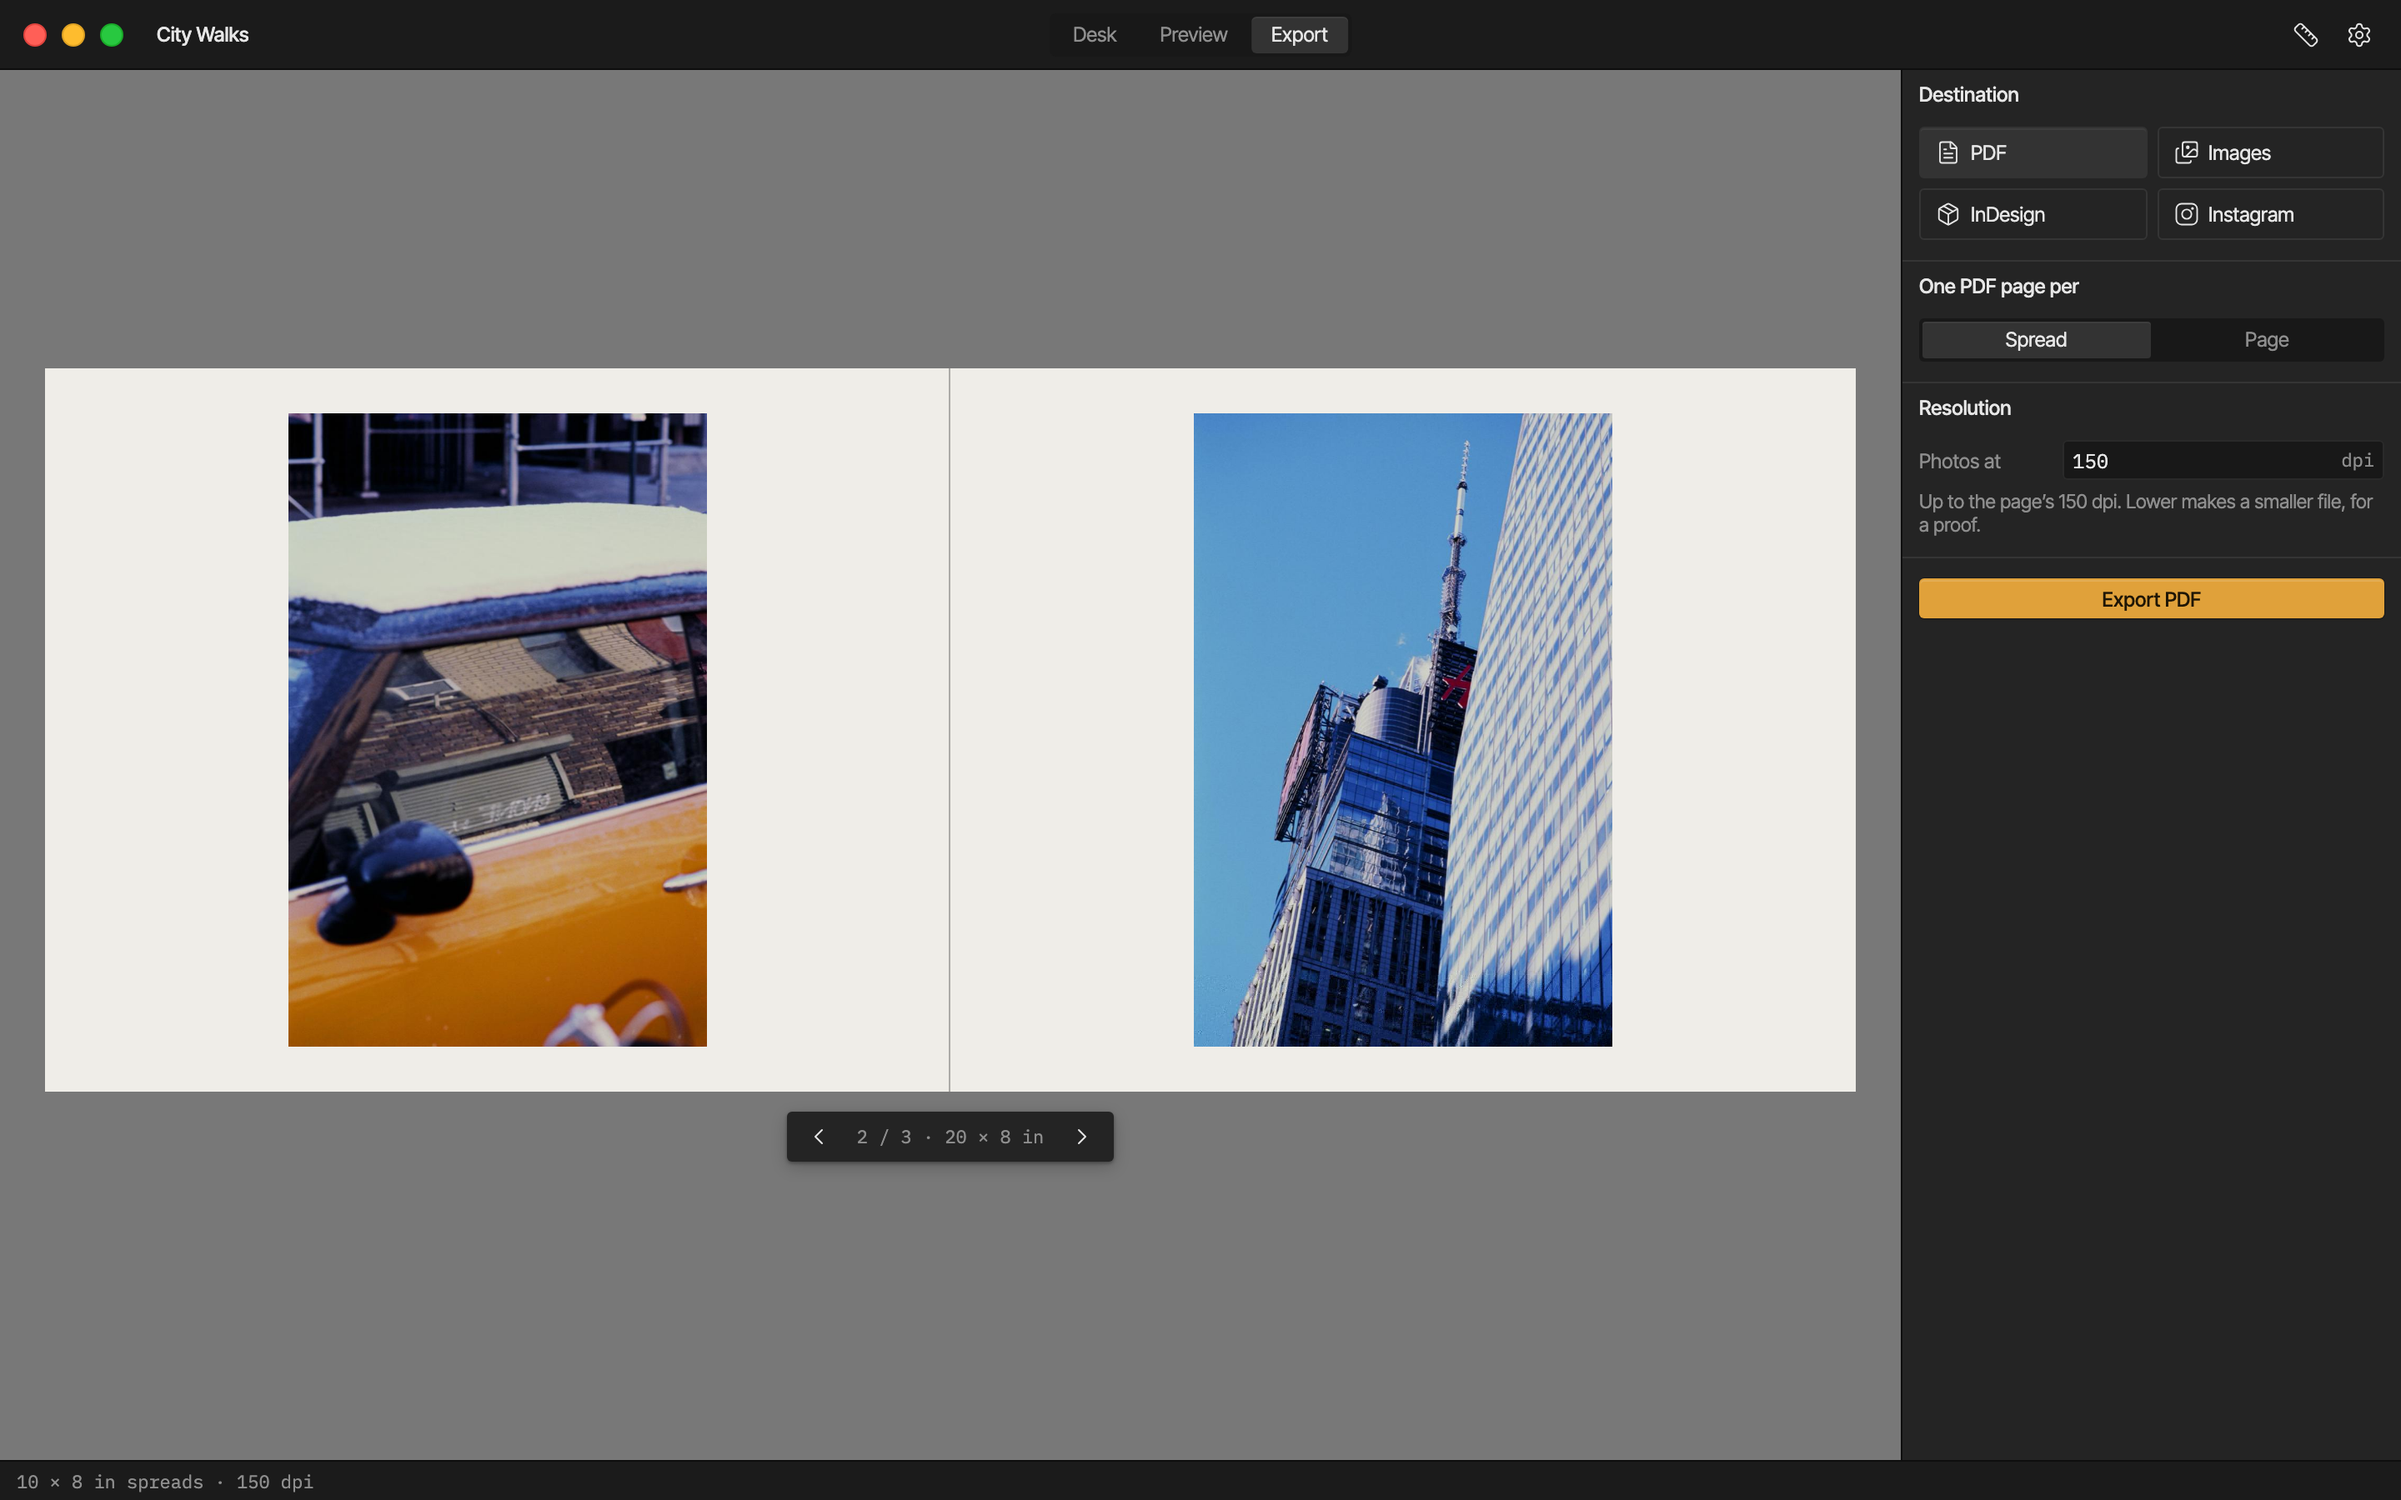
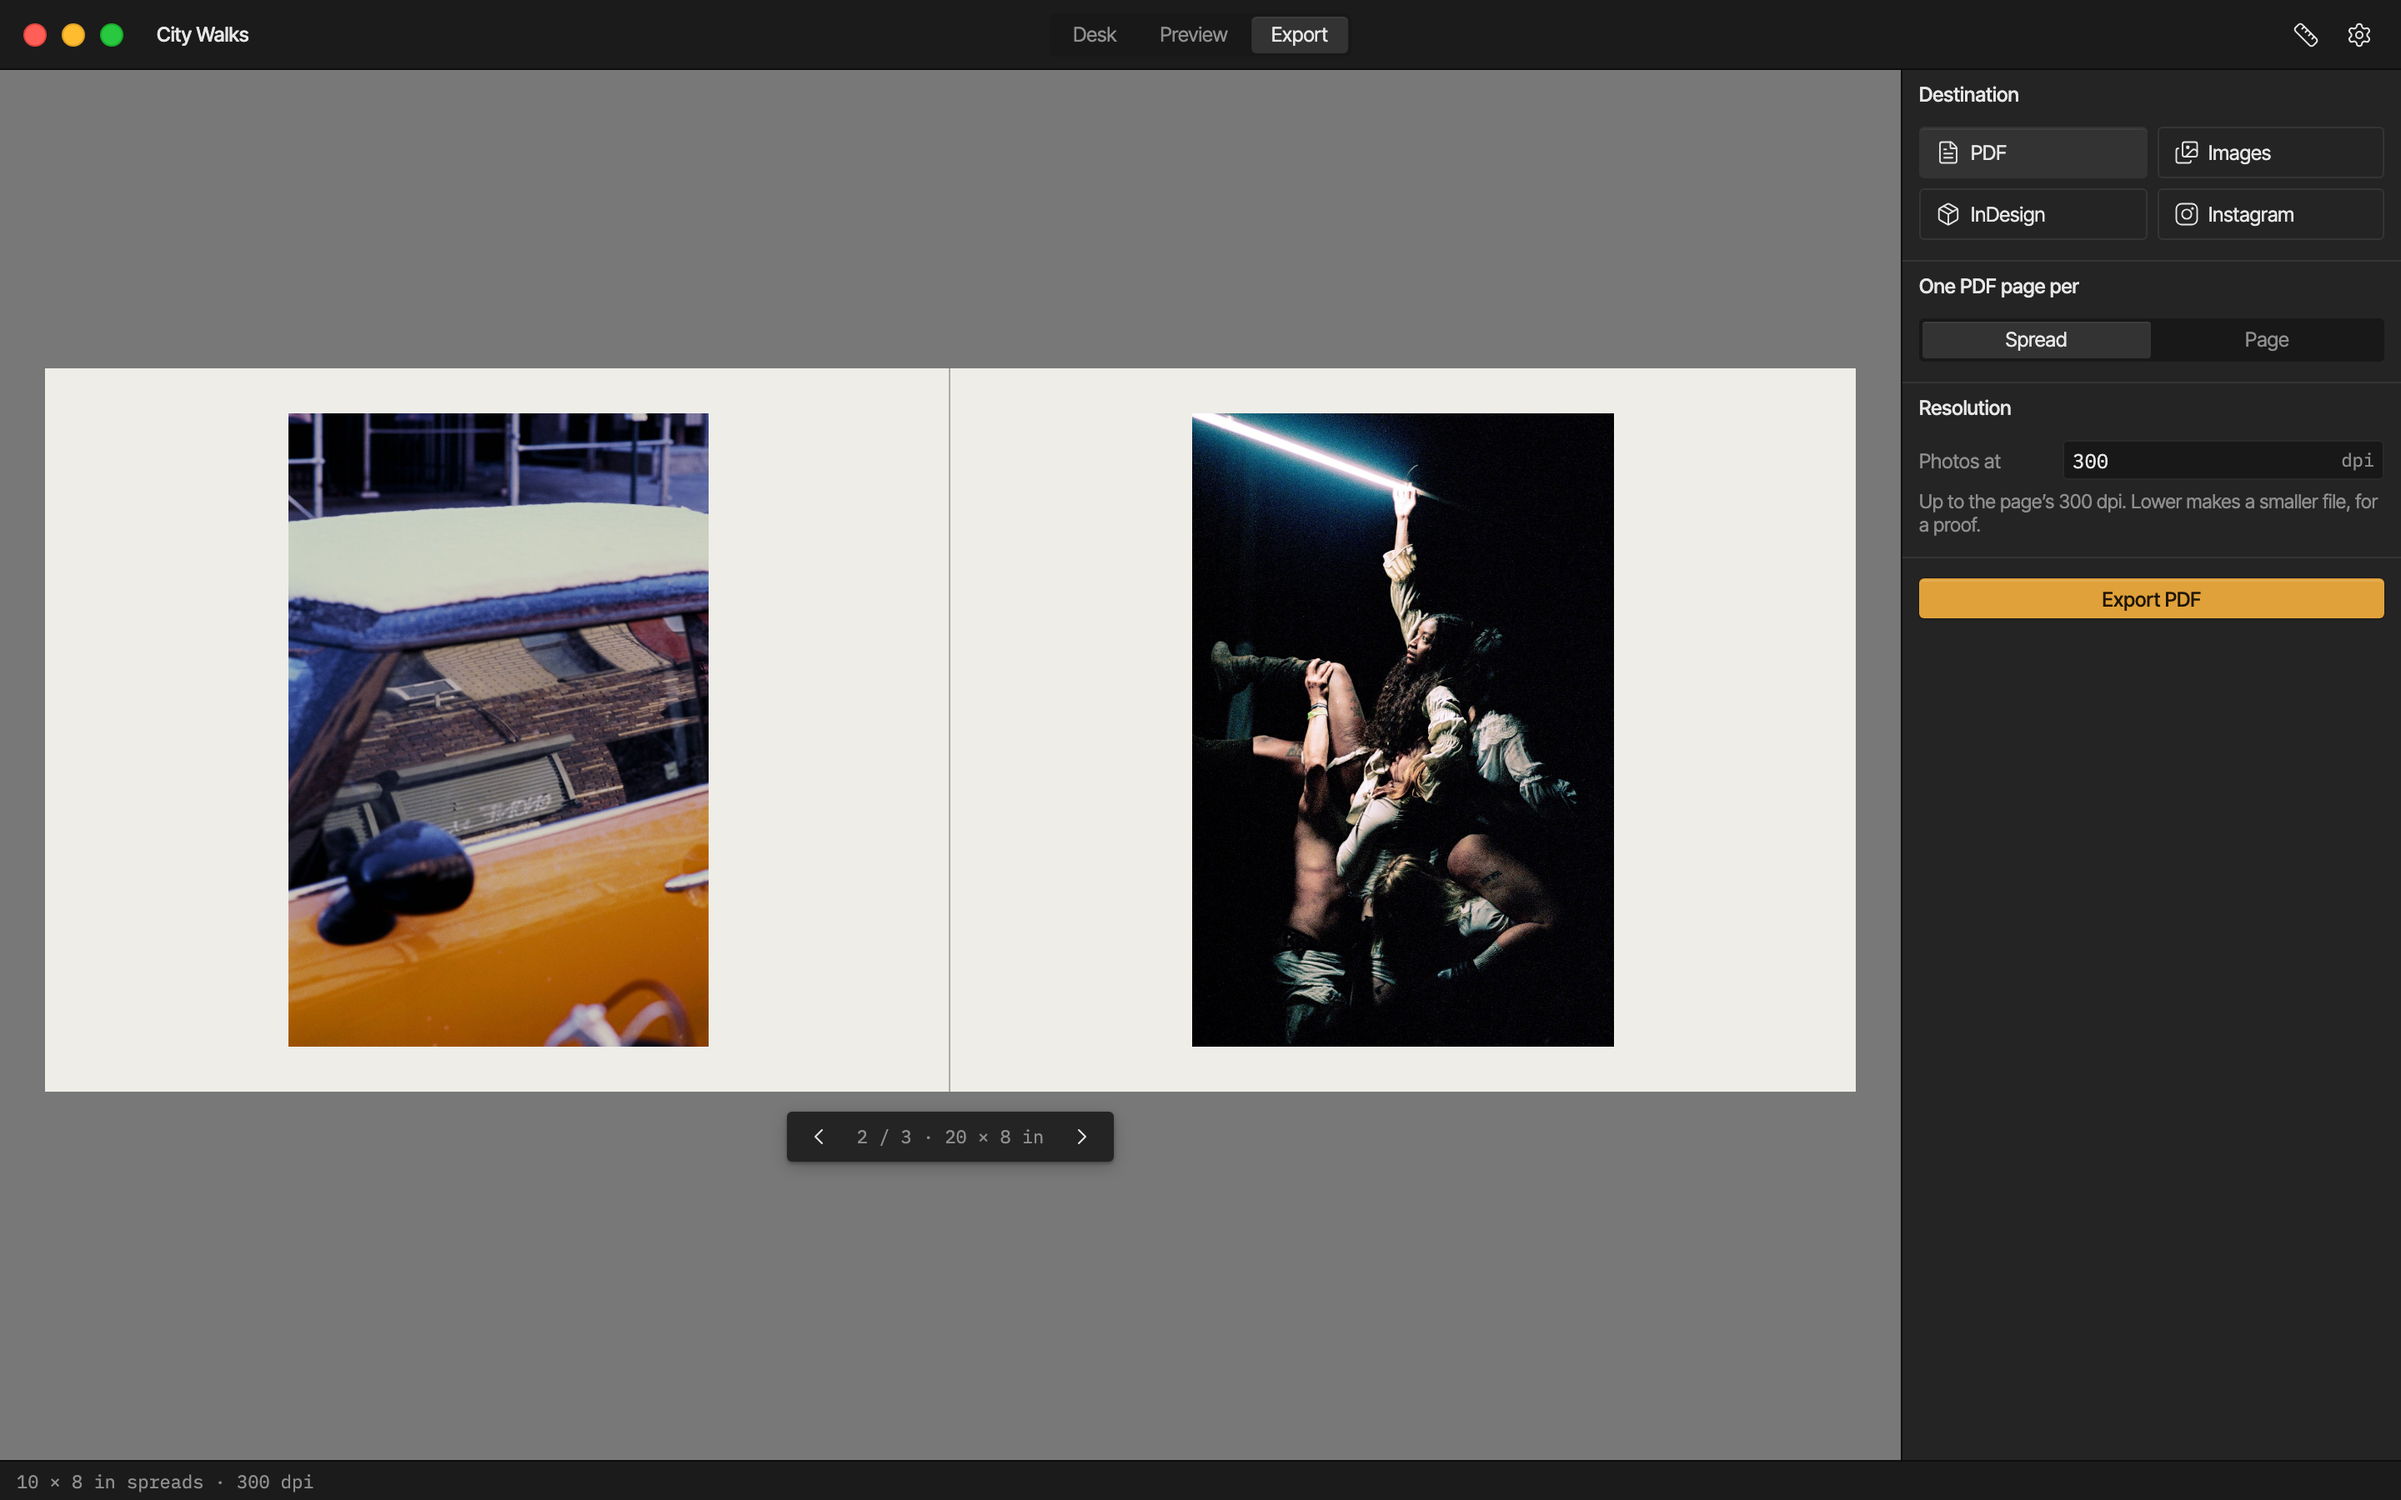
Screenshots from six large photos in assets/screenshots (at 300 dpi, nothing enlarged), with display copies made as adding photos makes them

Changed region(s): [[0.4688, 0.2489, 0.6875, 0.7156], [0.8438, 0.3111, 1.0, 0.3422], [0.25, 0.28, 0.2812, 0.3111]]

diff --git a/.claude/skills/screenshots/SKILL.md b/.claude/skills/screenshots/SKILL.md
@@ -1,6 +1,6 @@
 ---
 name: screenshots
-description: Retake Sequence's screenshots (App Store, README, landing page) from the current UI with the six sample photos. Use when the UI has changed before a release, or when asked to update, retake, or add screenshots.
+description: Retake Sequence's screenshots (App Store, README, landing page) from the current UI with the six photos kept for them. Use when the UI has changed before a release, or when asked to update, retake, or add screenshots.
 ---
 
 # Screenshots
@@ -8,9 +8,9 @@ description: Retake Sequence's screenshots (App Store, README, landing page) fro
 `npm run screenshots` (`scripts/screenshots.mjs`) takes every screenshot from the Mac app's
 interface as it is now: the Mac build's web side (`vite --mode app` on :5176, started if it
 isn't running) in headless Chromium at 1440 × 900 pt @2x, with Tauri stubbed out and the
-traffic lights drawn in. The project is "City Walks": the six sample photos in `src/tour/`,
-three on the desk and three placed in a four-page book at 150 dpi (so nothing is marked low
-resolution). Dark theme. It writes:
+traffic lights drawn in. The project is "City Walks": the six photos in
+`assets/screenshots/` (the owner's, large enough that nothing is enlarged or marked low
+resolution), three on the desk and three placed in a four-page book at 300 dpi. Dark theme. It writes:
 
 | File                                         | Use                                        |
 | -------------------------------------------- | ------------------------------------------ |
@@ -21,8 +21,7 @@ resolution). Dark theme. It writes:
 ## Steps
 
 1. Run it: `npm run screenshots`. `--only desk,preview` retakes some (matched against the
-   names: desk, spread, preview, quick, export). `--photos <dir>` uses larger copies of the
-   samples (same file names) for sharper shots; ask the user for them if the shots look soft.
+   names: desk, spread, preview, quick, export).
 2. Look at every PNG (downscale with `sips -Z 1440` to a scratch folder first) before
    committing: nothing cut off, no warnings or empty states that weren't meant, the traffic
    lights clear of the toolbar's content, text legible.
@@ -36,8 +35,10 @@ resolution). Dark theme. It writes:
 
 ## Rules
 
-- Only the six sample photos in `src/tour/` (or larger copies of the same six from the
-  user). Never other photos, the user's own files, or the Mac app's real data.
+- Only the photos in `assets/screenshots/`. To change them, the user gives new ones: keep
+  them large (about 3,600 px on the long side, JPEG quality 90, never enlarged), and update
+  `PHOTOS` and the layout in the script. Never other photos, the user's other files, or the
+  Mac app's real data.
 - The script uses a throwaway browser profile; it doesn't touch the dev server's data on
   :5175 or anything else.
 - App Store screenshots must show the app as it ships: don't stage features that aren't in

diff --git a/README.md b/README.md
@@ -102,14 +102,14 @@ public `VITE_` values only, since they ship in the website and the app. Vite rea
 
 ## Directories
 
-| Directory    | What's in it                                                                                    |
-| ------------ | ----------------------------------------------------------------------------------------------- |
-| `src/`       | The app: React and TypeScript, with its unit tests beside each file                             |
-| `site/`      | The website's pages (landing, app, privacy, support), the landing page's code, and public files |
-| `server/`    | The Cloudflare Worker for Instagram posting, with its own package and tests                     |
-| `src-tauri/` | The Mac app's native side (Rust), its config, entitlements, and icons                           |
-| `e2e/`       | Playwright interaction tests                                                                    |
-| `scripts/`   | Build and release scripts: the App Store build, version bump, icons, checks                     |
-| `assets/`    | Source art: the app icon's drawings (`npm run icons` makes the rest)                            |
-| `docs/`      | Setup, testing, releasing, design proposals, and context for coding agents                      |
-| `.github/`   | CI, the Mac app test, and the release and App Store workflows                                   |
+| Directory    | What's in it                                                                                      |
+| ------------ | ------------------------------------------------------------------------------------------------- |
+| `src/`       | The app: React and TypeScript, with its unit tests beside each file                               |
+| `site/`      | The website's pages (landing, app, privacy, support), the landing page's code, and public files   |
+| `server/`    | The Cloudflare Worker for Instagram posting, with its own package and tests                       |
+| `src-tauri/` | The Mac app's native side (Rust), its config, entitlements, and icons                             |
+| `e2e/`       | Playwright interaction tests                                                                      |
+| `scripts/`   | Build and release scripts: the App Store build, version bump, icons, checks                       |
+| `assets/`    | Source art: the app icon's drawings (`npm run icons` makes the rest), and the screenshots' photos |
+| `docs/`      | Setup, testing, releasing, design proposals, and context for coding agents                        |
+| `.github/`   | CI, the Mac app test, and the release and App Store workflows                                     |

diff --git a/AGENTS.md b/AGENTS.md
@@ -68,9 +68,9 @@ when the Mac app, saving, or exports change. The first `test:e2e` needs
 
 - The dev server's data is disposable test data: change or reset it freely. Never touch the
   Mac app's real data or the user's own photos and files.
-- Public materials (screenshots, the landing page, the tour) use only the six sample photos
-  in `src/tour/`. `npm run screenshots` retakes the App Store's, the README's, and the landing
-  page's (see `.claude/skills/screenshots/`).
+- Public materials use only the owner's photos kept for them: the tour's six in `src/tour/`,
+  and the screenshots' six in `assets/screenshots/`. `npm run screenshots` retakes the App
+  Store's, the README's, and the landing page's (see `.claude/skills/screenshots/`).
 - Never paste secrets into code, logs, or chat. Server secrets are set by the owner with
   `wrangler secret put`.
 - Local secrets go only in git-ignored names: `.env.local` (or `.env.*.local`), or the
